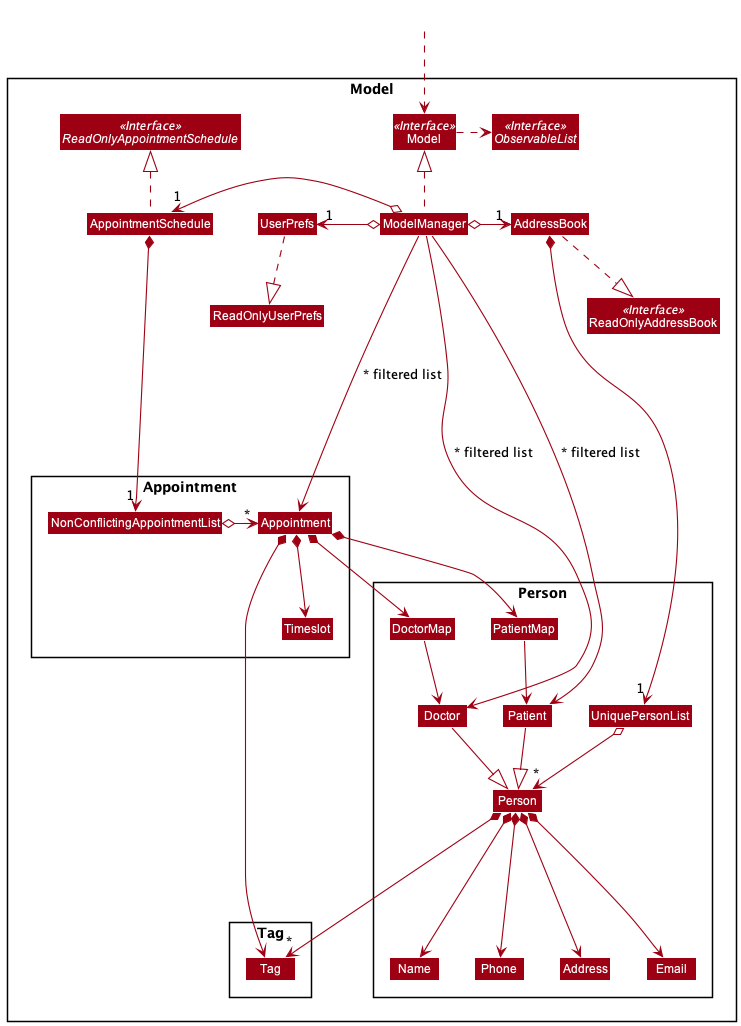
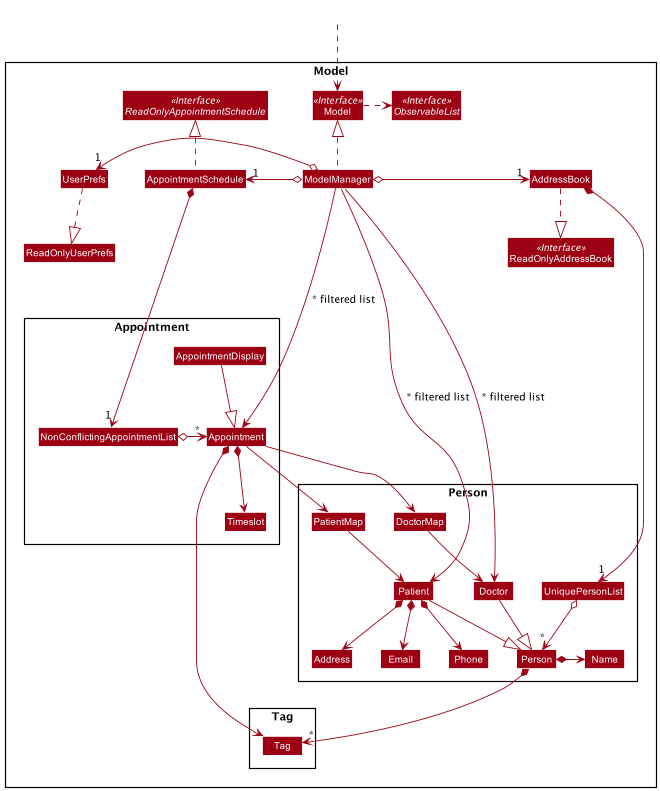
update model component description and update better OOP diagrams.

Changed region(s): [[0.0, 0.0607, 1.0, 1.0], [0.697, 0.3641, 0.7273, 0.3944], [0.6667, 0.3338, 0.697, 0.3641]]

diff --git a/docs/DeveloperGuide.md b/docs/DeveloperGuide.md
@@ -111,17 +111,16 @@ The `Model`,
 * exposes unmodifiable `ObservableList<Person>` and `ObservableList<Appointment>` that can be 'observed' e.g. the UI can be bound to these lists so that the UI automatically updates when the data in these lists change.
 * does not depend on any of the other three components.
 
-The `Person`
-* stores a `UniquePersonList` which stores `Person` objects.
-* `Patient` and `Doctor` inherit from the Person class, and are accessed by `Appointment` via `PatientMap` and `DoctorMap`.
+The `Person`,
 
-The `Appointment`
-* stores a `NonConflictingAppointmentList`, which stores `Appointment` objects.
-* consists of ``
+* stores a `Person` class, which the `Doctor` class and `Patient` class inherit from.
 
+The `Appointment`,
 
-<div markdown="span" class="alert alert-info">:information_source: **Note:** An alternative (arguably, a more OOP) Person model is given below. It has a `Tag` list in the `AddressBook`, which `Person` references. This allows `AddressBook` to only require one `Tag` object per unique `Tag`, instead of each `Person` needing their own `Tag` object.<br>
-![BetterModelClassDiagram](images/BetterModelClassDiagram.png)
+* stores a `Appointment` class, which access `Patient` object and `Doctor` object via the `PatientMap` class and `DoctorMap` class.
+<div markdown="span" class="alert alert-info">:information_source: **Note:** An alternative (arguably, a more OOP) Person model is given below. It has a `Tag` list in the `AddressBook`, which `Person` references. This allows `AddressBook` to only require one `Tag` object per unique `Tag`, instead of each `Person` needing their own `Tag` object. Similar design can be applied to the Appointment model.<br>
+![BetterPersonModelClassDiagram](images/BetterPersonModelClassDiagram.png)
+![BetterAppointmentModelClassDiagram](images/BetterAppointmentModelClassDiagram.png)
 
 </div>
 
